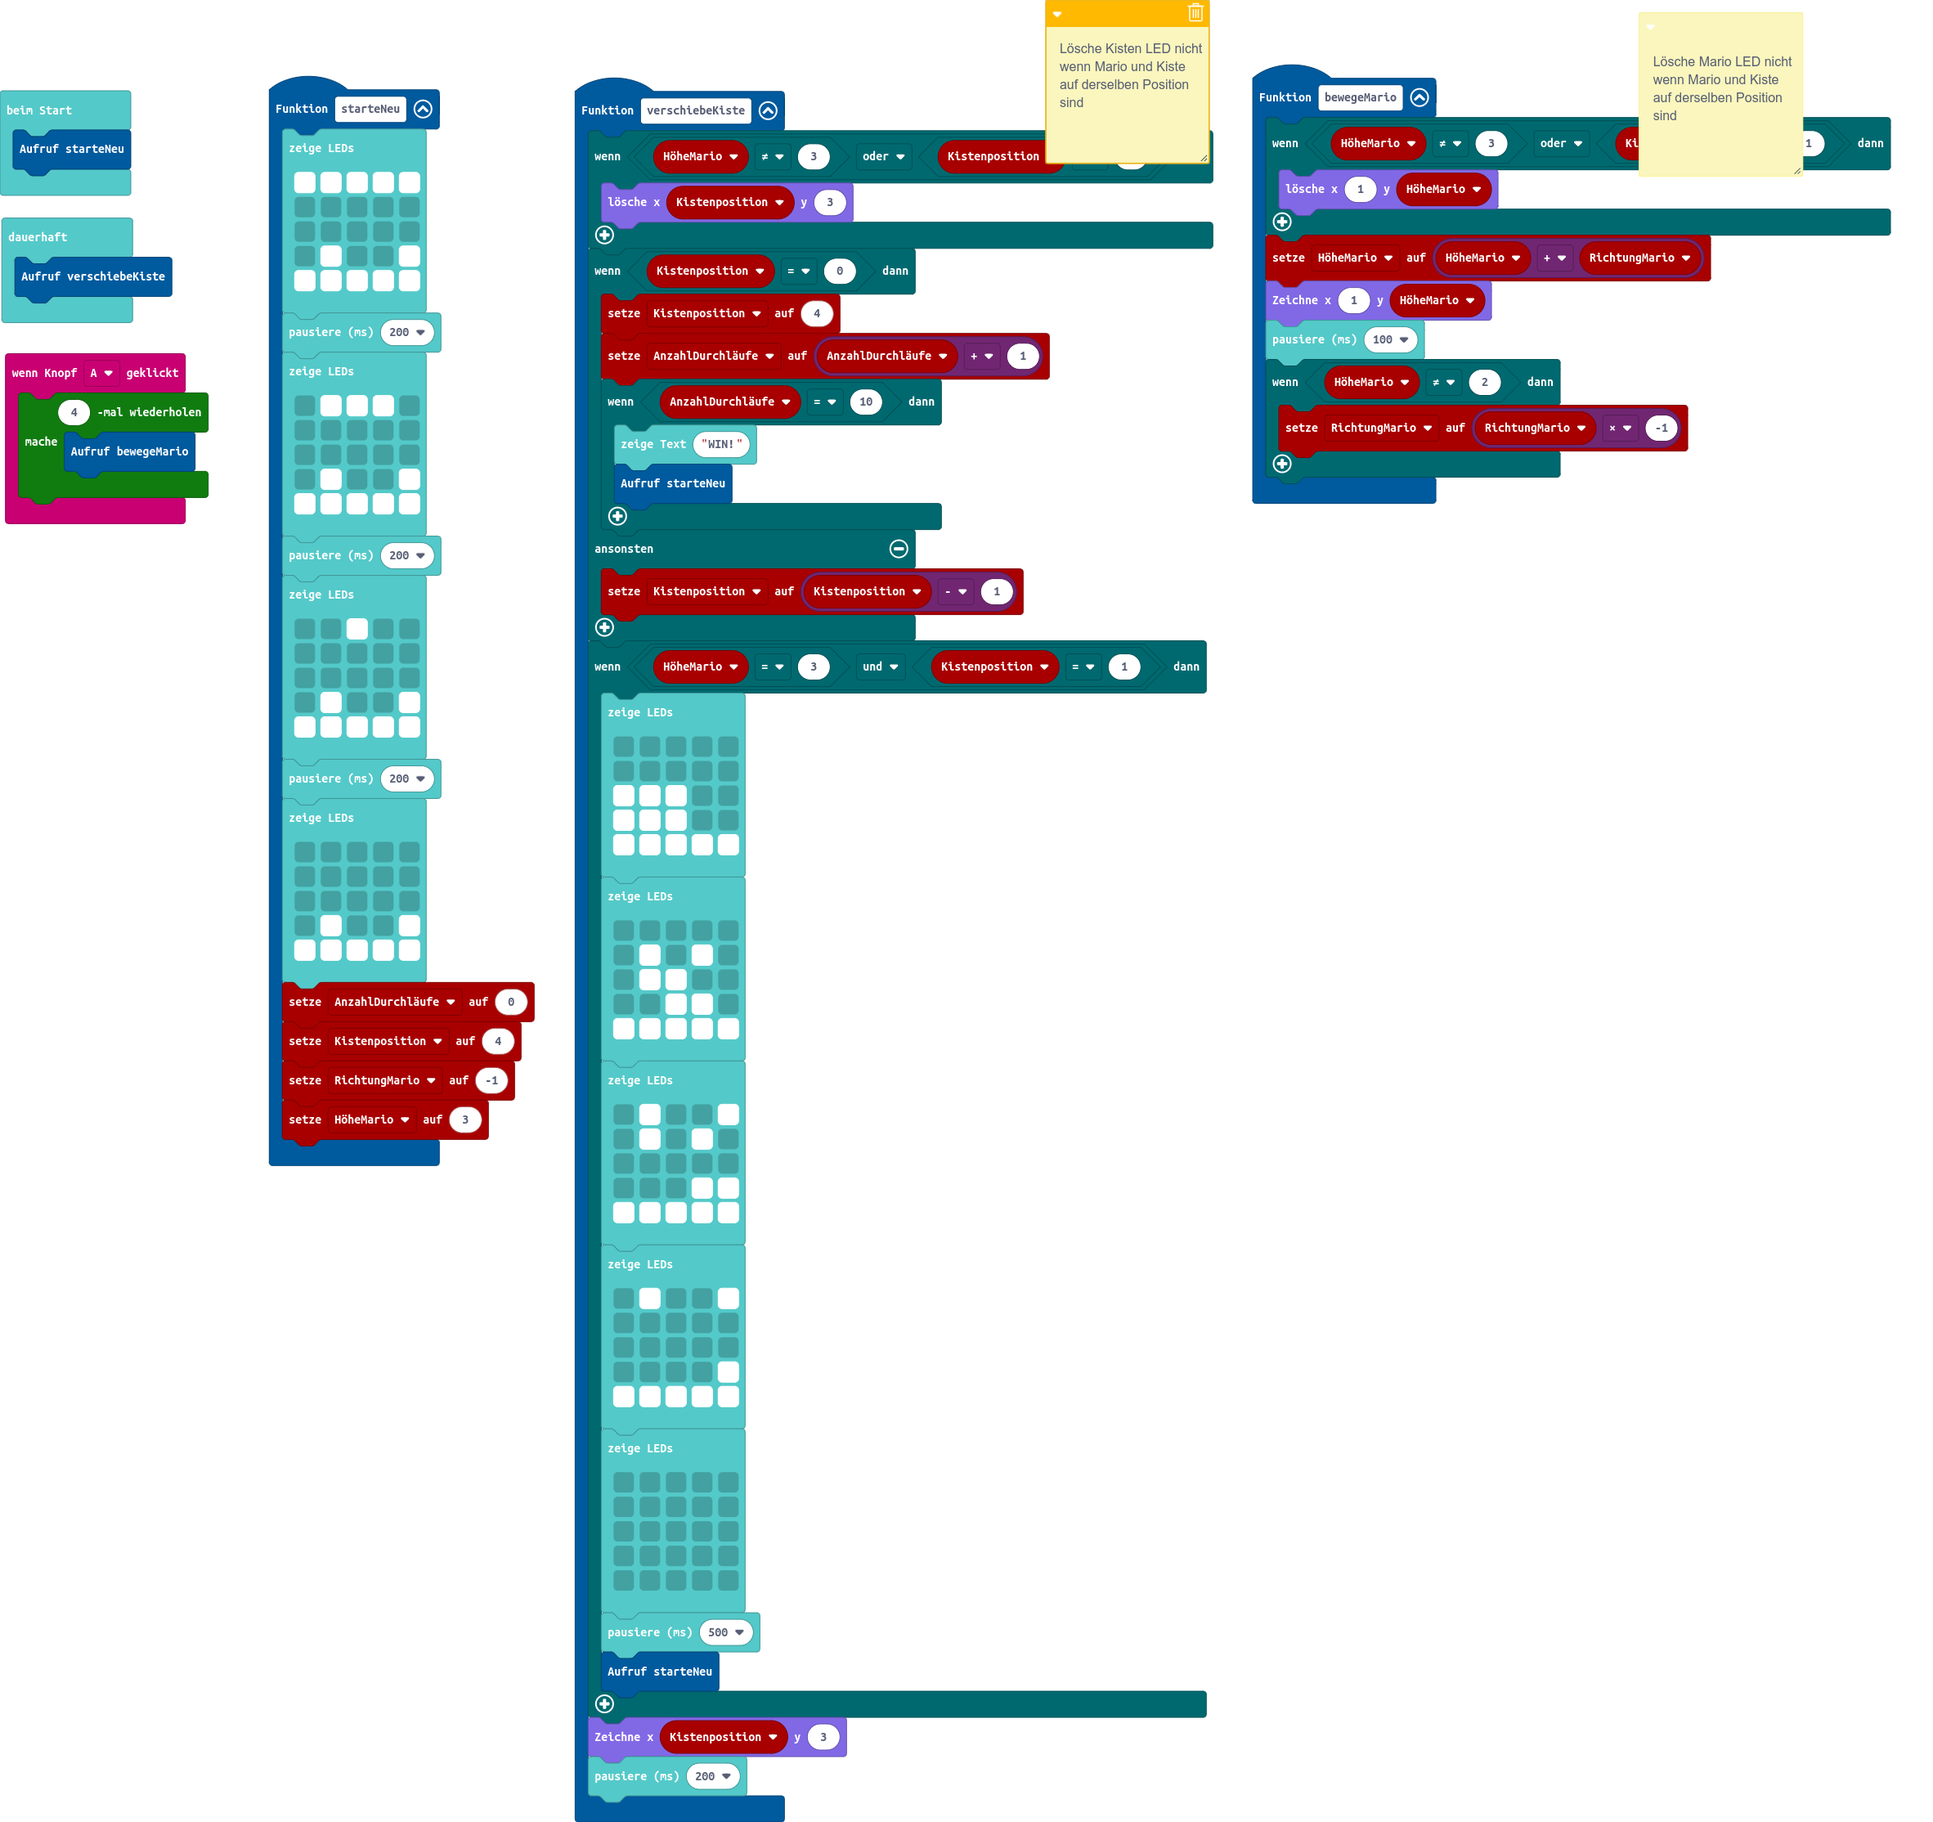
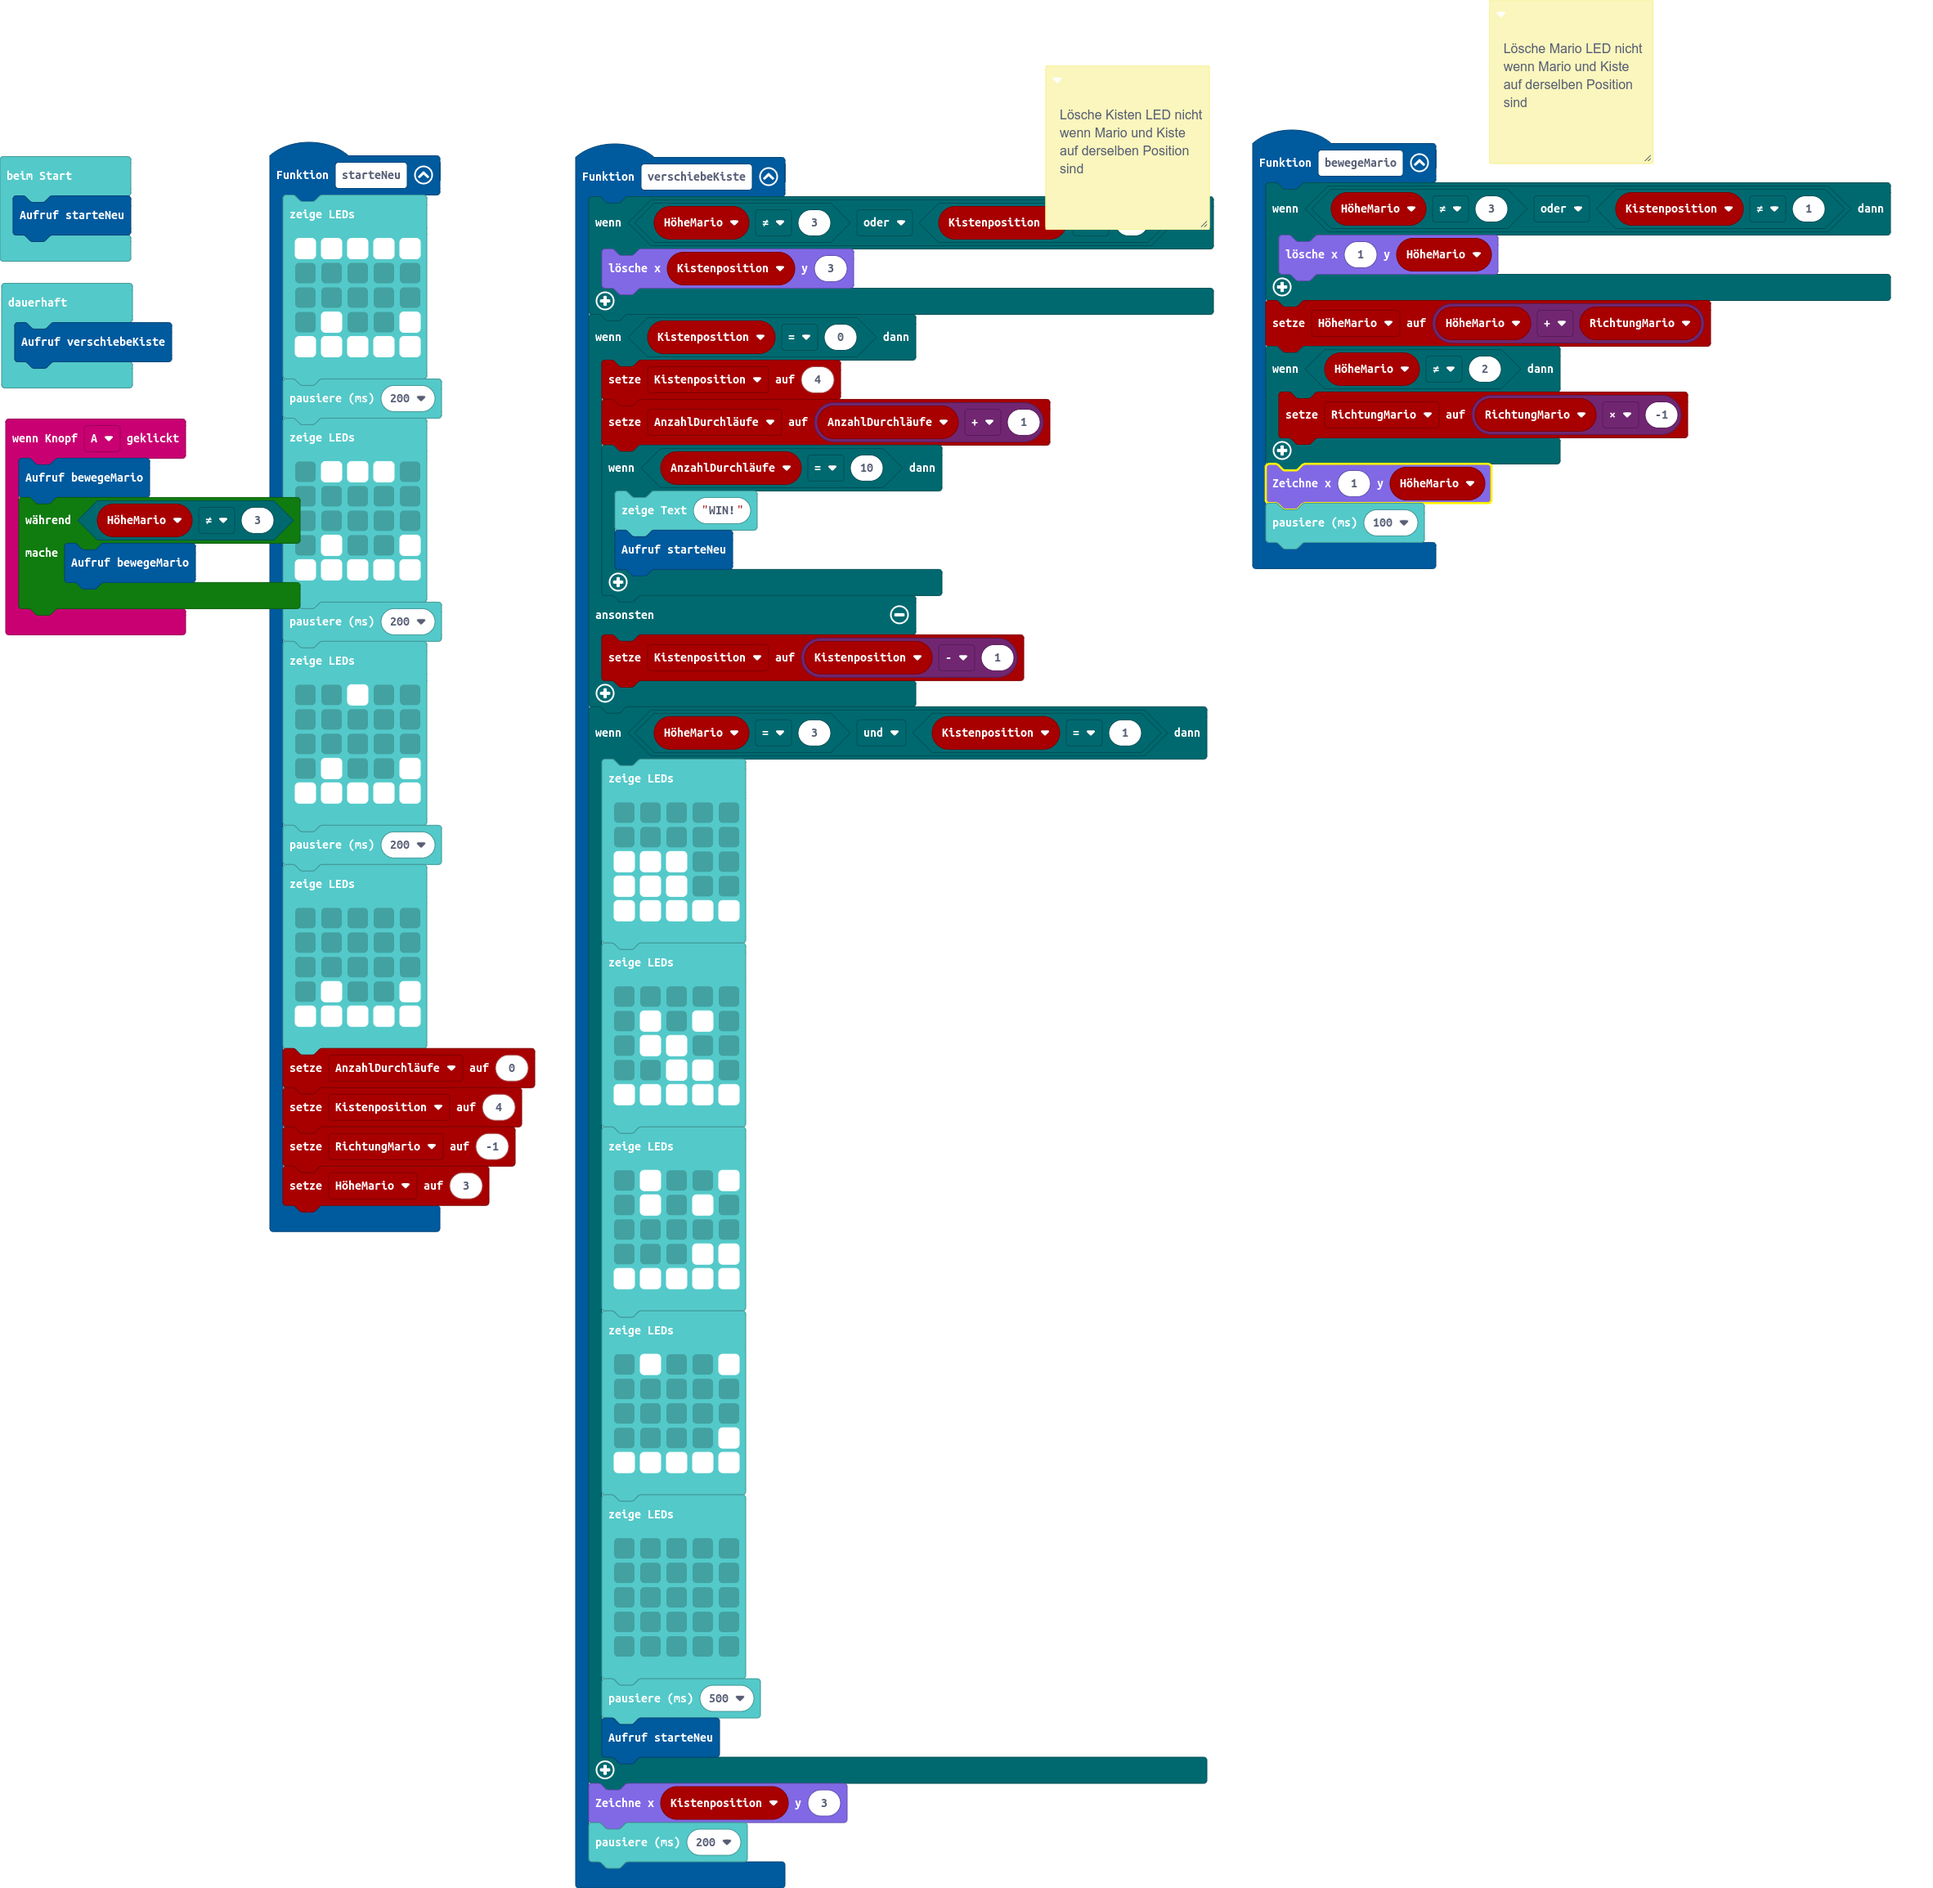
Mario kann nicht mehr in der Luft stehen bleiben

Changed region(s): [[0.2779, 0.0, 0.9882, 0.991], [0.0, 0.031, 0.2779, 0.6504]]

diff --git a/main.ts b/main.ts
@@ -1,5 +1,6 @@
 input.onButtonPressed(Button.A, function () {
-    for (let index = 0; index < 4; index++) {
+    bewegeMario()
+    while (HöheMario != 3) {
         bewegeMario()
     }
 })
@@ -11,11 +12,11 @@ function bewegeMario () {
         led.unplot(1, HöheMario)
     }
     HöheMario = HöheMario + RichtungMario
-    led.plot(1, HöheMario)
-    basic.pause(100)
     if (HöheMario != 2) {
         RichtungMario = RichtungMario * -1
     }
+    led.plot(1, HöheMario)
+    basic.pause(100)
 }
 function starteNeu () {
     basic.showLeds(`
